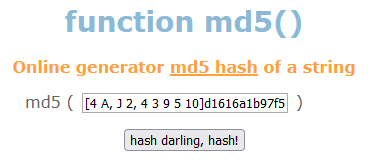
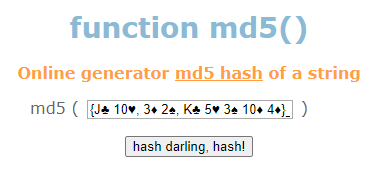
feat: update images for md5

diff --git a/src/components/shared/md5-number/en/index.tsx b/src/components/shared/md5-number/en/index.tsx
@@ -95,7 +95,7 @@ export const renderMD5EN = (gameId?: number) => {
                             and paste the Result string into the MD5 box
                             <img
                                 className="format-img auto-center"
-                                src="/static/images/casino-holdem/hash-darling.png?v=1"
+                                src="/static/images/casino-holdem/hash-darling.png?v=2"
                                 alt="hash-darling"
                             />
                         </li>
@@ -104,7 +104,7 @@ export const renderMD5EN = (gameId?: number) => {
                             string with the MD5 string in <strong>Step 1</strong>.
                             <img
                                 className="format-img auto-center"
-                                src="/static/images/casino-holdem/md5-checksum.png"
+                                src="/static/images/casino-holdem/md5-checksum.png?v=1"
                                 alt="md5-checksum"
                             />
                         </li>

diff --git a/src/components/shared/md5-number/vi/index.tsx b/src/components/shared/md5-number/vi/index.tsx
@@ -98,7 +98,7 @@ export const renderMD5VI = (gameId?: number) => {
                             và dán chuỗi Kết Quả vừa copy vào ô MD5.
                             <img
                                 className="format-img auto-center"
-                                src="/static/images/casino-holdem/hash-darling.png?v=1"
+                                src="/static/images/casino-holdem/hash-darling.png?v=2"
                                 alt="hash-darling"
                             />
                         </li>
@@ -107,7 +107,7 @@ export const renderMD5VI = (gameId?: number) => {
                             ở Bước 1.
                             <img
                                 className="format-img auto-center"
-                                src="/static/images/casino-holdem/md5-checksum.png?v=1"
+                                src="/static/images/casino-holdem/md5-checksum.png?v=2"
                                 alt="md5-checksum"
                             />
                         </li>

diff --git a/src/components/game-guide/casino-hold/en/index.tsx b/src/components/game-guide/casino-hold/en/index.tsx
@@ -12,9 +12,7 @@ const renderGameRule = (maxBet: string | number | undefined) => {
         <>
             <h2>Game Rules</h2>
             <ul className="desc">
-                <li>
-                    Select the chip with the value that suits you best and place the chip on the Ante bet or make an optional AA bonus bet.
-                </li>
+                <li>Select the chip with the value that suits you best and place the chip on the Ante bet or AA bonus bet.</li>
                 <li>Note, Ante bet is a mandatory option that the player must place bet before any cards are dealt.</li>
                 <li>Click on the Deal button to start the game round, the Player and the Dealer each receive two hole cards.</li>
                 <li>Three community cards (Flop cards) are dealt face-up in the middle of the table.</li>
